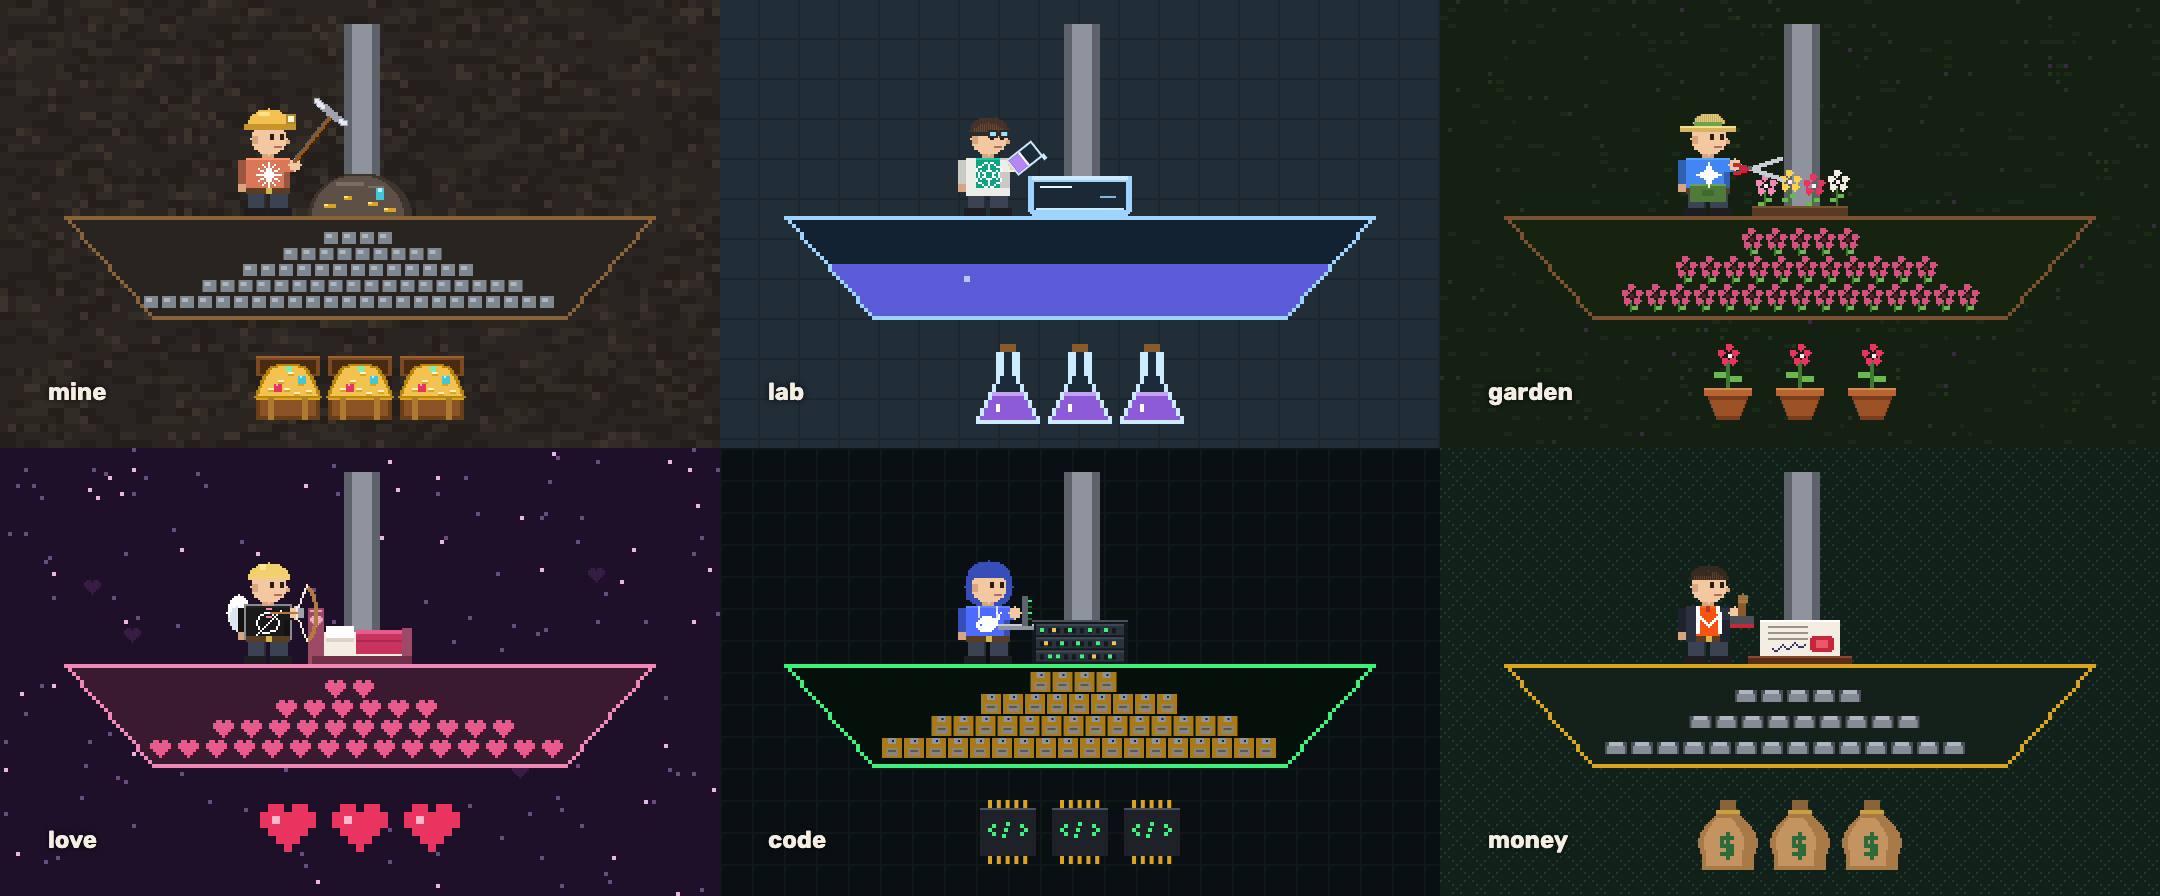
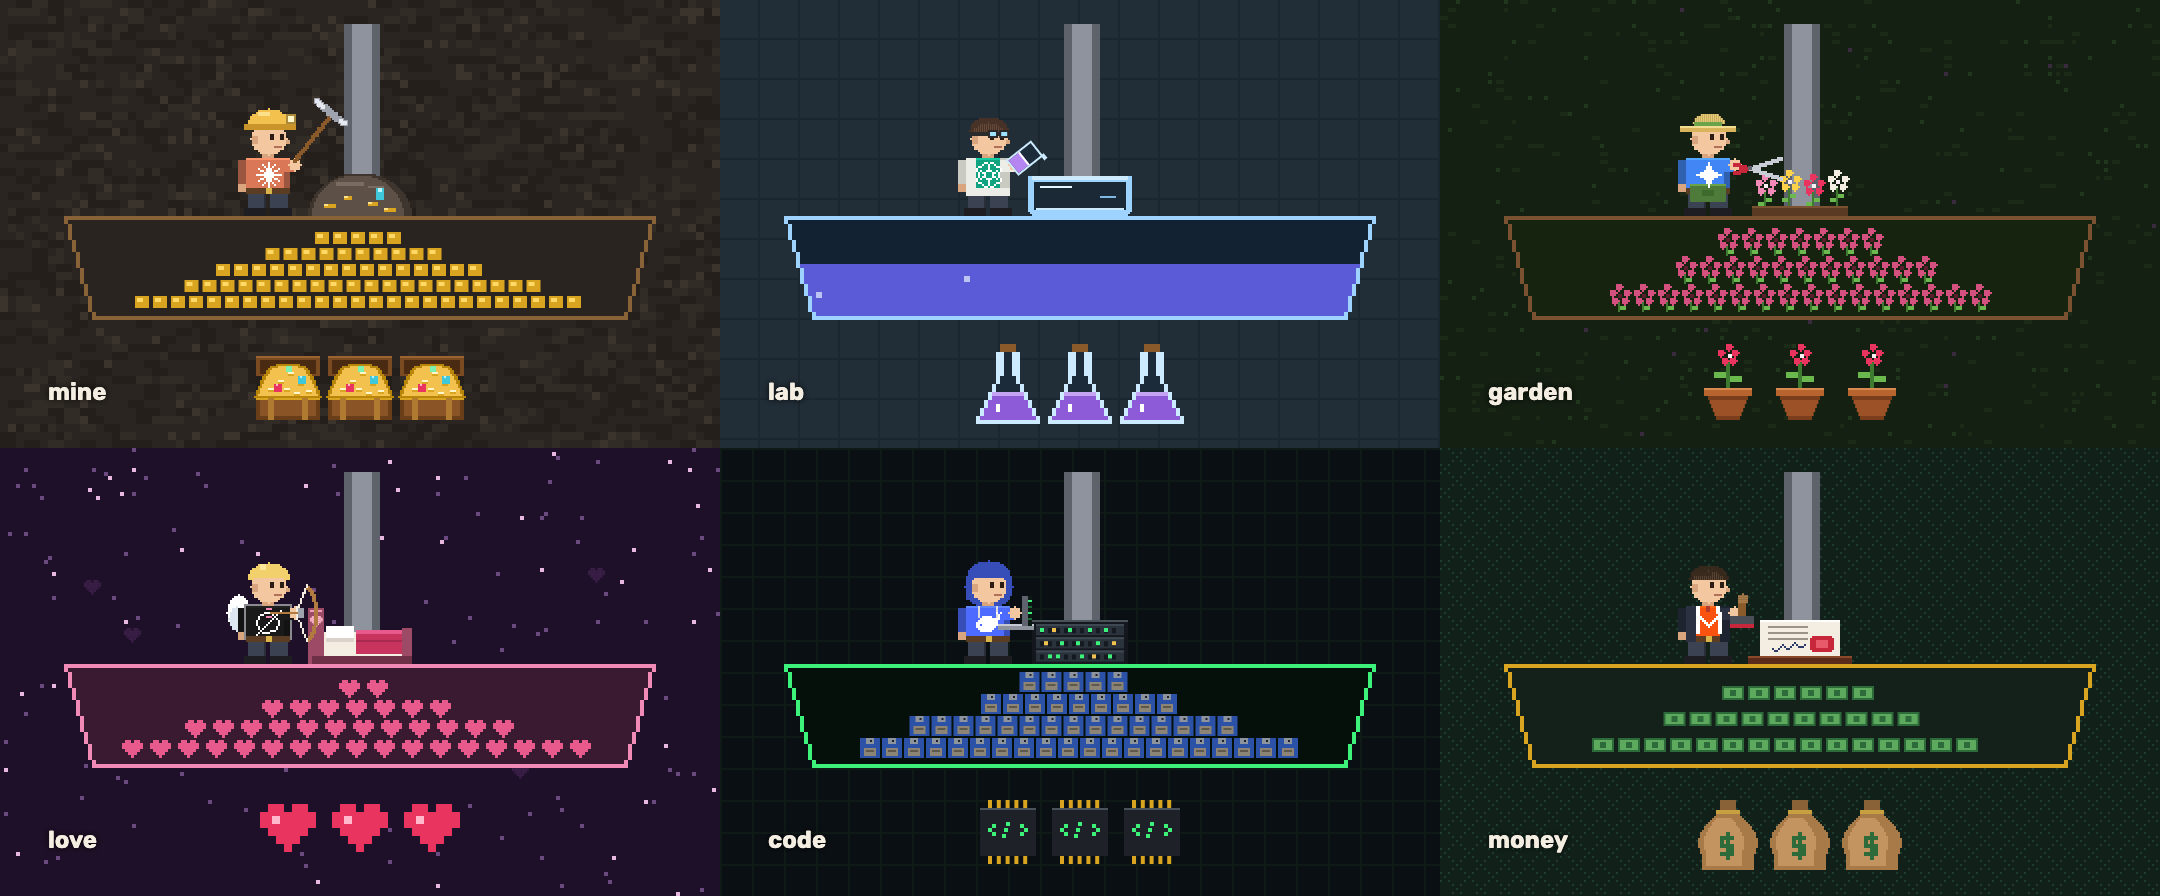
Theme samples: tank sides as gentle as on the board; gold for the mine, blue floppies, banknotes

diff --git a/tools/render-docs.js b/tools/render-docs.js
@@ -1,10 +1,10 @@
 // Renders the README pictures (agents sheet, theme samples, the board) and the link preview card from the same drawing code as
 // the dashboard and saves them through serve.py: open http://localhost:5173/tools/render-docs.html
 // (always in English: the page adds ?lang=en to itself).
-import { AGENTS, FUNNELS } from '../src/data.js?v=3cb24732';
-import { Scene, CW, H } from '../src/scene.js?v=3cb24732';
-import { THEMES } from '../src/themes.js?v=3cb24732';
-import { drawStanding, drawPickaxe, drawShears, drawBeaker, drawBow, drawArrow, drawLaptop, drawStamp } from '../src/sprites.js?v=3cb24732';
+import { AGENTS, FUNNELS } from '../src/data.js?v=37d7cad7';
+import { Scene, CW, H } from '../src/scene.js?v=37d7cad7';
+import { THEMES } from '../src/themes.js?v=37d7cad7';
+import { drawStanding, drawPickaxe, drawShears, drawBeaker, drawBow, drawArrow, drawLaptop, drawStamp } from '../src/sprites.js?v=37d7cad7';
 
 const FONT = 'Rubik, system-ui, sans-serif';
 
@@ -66,7 +66,11 @@ function themesSheet() {
     else { drawBow(g, hx, hy, 0.6); drawArrow(g, hx + 1, hy); }
     // A funnel tank as on the board: a thin trapezoid, its pieces piled from the bottom middle
     // (a liquid in the lab), about half full.
-    const tx = 90, ty = 54, TH = 26, half = row => Math.round(74 - 22 * row / (TH - 1));
+    // The sides slope as gently as on the board (7 units each over the tank's height).
+    const tx = 90, ty = 54, TH = 26, half = row => Math.round(74 - 7 * row / (TH - 1));
+    // Which stage's pieces each sample shows: gold for the mine, blue floppies for code, banknotes
+    // for money, the middle stage elsewhere.
+    const [sj, sn] = { mine: [3, 5], code: [0, 5], money: [1, 5] }[name] || [1, 3];
     for (let row = 0; row < TH; row++) {
       const h = half(row);
       g.fillStyle = th.frame;
@@ -82,7 +86,7 @@ function themesSheet() {
           if (px + P.w <= tx + hw) cells.push({ x: px, y: top, score: row * 1.6 + Math.abs(px + P.w / 2 - tx) / P.w * 0.7 });
         }
       }
-      cells.sort((a, b) => a.score - b.score).slice(0, Math.round(cells.length * 0.5)).forEach((cell, m) => P.draw(g, cell.x, cell.y, 1, 3, m));
+      cells.sort((a, b) => a.score - b.score).slice(0, Math.round(cells.length * 0.5)).forEach((cell, m) => P.draw(g, cell.x, cell.y, sj, sn, m));
     } else {
       g.save(); g.beginPath();
       for (let row = 12; row < TH - 1; row++) { const h = half(row) - 1; g.rect(tx - h, ty + row, h * 2, 1); }

diff --git a/app/index.html b/app/index.html
@@ -12,7 +12,7 @@
   <link rel="preconnect" href="https://fonts.googleapis.com">
   <link rel="preconnect" href="https://fonts.gstatic.com" crossorigin>
   <link href="https://fonts.googleapis.com/css2?family=Rubik:wght@400;500;600;700&family=Noto+Sans+SC:wght@400;500;700&family=Noto+Sans+Thai:wght@400;500;700&family=Be+Vietnam+Pro:wght@400;500;600;700&family=Noto+Sans+JP:wght@400;500;700&display=swap" rel="stylesheet">
-  <link rel="stylesheet" href="../dashboard.css?v=3cb24732">
+  <link rel="stylesheet" href="../dashboard.css?v=37d7cad7">
 </head>
 <body>
   <nav class="sitebar">
@@ -38,11 +38,11 @@
   <div id="pop" hidden></div>
 
   <script type="module">
-    import { supabase } from '../src/auth.js?v=3cb24732';
-    import { setUpConnect } from '../src/connect.js?v=3cb24732';
-    import { loadFunnels, answer, watch, runs } from '../src/live.js?v=3cb24732';
-    import { mountDashboard } from '../src/dashboard.js?v=3cb24732';
-    import { t, fmtDuration } from '../src/i18n.js?v=3cb24732';
+    import { supabase } from '../src/auth.js?v=37d7cad7';
+    import { setUpConnect } from '../src/connect.js?v=37d7cad7';
+    import { loadFunnels, answer, watch, runs } from '../src/live.js?v=37d7cad7';
+    import { mountDashboard } from '../src/dashboard.js?v=37d7cad7';
+    import { t, fmtDuration } from '../src/i18n.js?v=37d7cad7';
 
     // Coming back from an email link, supabase-js reads the session from the URL.
     const { data: { session } } = await supabase.auth.getSession();
@@ -92,6 +92,6 @@
       document.addEventListener('focusout', () => { if (pending) refresh(); });
     }
   </script>
-  <script type="module" src="../src/nav.js?v=3cb24732"></script>
+  <script type="module" src="../src/nav.js?v=37d7cad7"></script>
 </body>
 </html>

diff --git a/login/index.html b/login/index.html
@@ -12,7 +12,7 @@
   <link rel="preconnect" href="https://fonts.googleapis.com">
   <link rel="preconnect" href="https://fonts.gstatic.com" crossorigin>
   <link href="https://fonts.googleapis.com/css2?family=Rubik:wght@400;500;600;700&family=Noto+Sans+SC:wght@400;500;700&family=Noto+Sans+Thai:wght@400;500;700&family=Be+Vietnam+Pro:wght@400;500;600;700&family=Noto+Sans+JP:wght@400;500;700&display=swap" rel="stylesheet">
-  <link rel="stylesheet" href="../site.css?v=3cb24732">
+  <link rel="stylesheet" href="../site.css?v=37d7cad7">
 </head>
 <body>
   <div class="wrap">
@@ -44,9 +44,9 @@
   </div>
 
   <script type="module">
-    import { supabase, afterSignIn } from '../src/auth.js?v=3cb24732';
-    import { GOOGLE_CLIENT_ID } from '../src/config.js?v=3cb24732';
-    import { t, lang } from '../src/i18n.js?v=3cb24732';
+    import { supabase, afterSignIn } from '../src/auth.js?v=37d7cad7';
+    import { GOOGLE_CLIENT_ID } from '../src/config.js?v=37d7cad7';
+    import { t, lang } from '../src/i18n.js?v=37d7cad7';
 
     const msg = document.getElementById('msg');
     const say = (text, kind = '') => { msg.textContent = text; msg.className = 'msg ' + kind; };
@@ -120,6 +120,6 @@
       else say(t('login.sendFailed'), 'error');
     });
   </script>
-  <script type="module" src="../src/nav.js?v=3cb24732"></script>
+  <script type="module" src="../src/nav.js?v=37d7cad7"></script>
 </body>
 </html>

diff --git a/oauth/consent/index.html b/oauth/consent/index.html
@@ -13,7 +13,7 @@
   <link rel="preconnect" href="https://fonts.googleapis.com">
   <link rel="preconnect" href="https://fonts.gstatic.com" crossorigin>
   <link href="https://fonts.googleapis.com/css2?family=Rubik:wght@400;500;600;700&family=Noto+Sans+SC:wght@400;500;700&family=Noto+Sans+Thai:wght@400;500;700&family=Be+Vietnam+Pro:wght@400;500;600;700&family=Noto+Sans+JP:wght@400;500;700&display=swap" rel="stylesheet">
-  <link rel="stylesheet" href="../../site.css?v=3cb24732">
+  <link rel="stylesheet" href="../../site.css?v=37d7cad7">
 </head>
 <body>
   <div class="wrap">
@@ -29,8 +29,8 @@
   <script type="module">
     // OAuth consent: Supabase Auth sends the person here with ?authorization_id= when an agent
     // (Claude, ChatGPT, Cursor…) asks to connect to their GoalAgents.
-    import { supabase, siteUrl } from '../../src/auth.js?v=3cb24732';
-    import { t } from '../../src/i18n.js?v=3cb24732';
+    import { supabase, siteUrl } from '../../src/auth.js?v=37d7cad7';
+    import { t } from '../../src/i18n.js?v=37d7cad7';
 
     const card = document.getElementById('card');
     const esc = s => String(s ?? '').replace(/[&<>"']/g, c => `&#${c.charCodeAt(0)};`);

diff --git a/contact/index.html b/contact/index.html
@@ -23,7 +23,7 @@
   <link rel="preconnect" href="https://fonts.googleapis.com">
   <link rel="preconnect" href="https://fonts.gstatic.com" crossorigin>
   <link href="https://fonts.googleapis.com/css2?family=Rubik:wght@400;500;600;700&family=Noto+Sans+SC:wght@400;500;700&family=Noto+Sans+Thai:wght@400;500;700&family=Be+Vietnam+Pro:wght@400;500;600;700&family=Noto+Sans+JP:wght@400;500;700&display=swap" rel="stylesheet">
-  <link rel="stylesheet" href="../site.css?v=3cb24732">
+  <link rel="stylesheet" href="../site.css?v=37d7cad7">
 </head>
 <body>
   <div class="wrap">
@@ -54,6 +54,6 @@
       <span><a href="../deck/" target="_blank" rel="noopener" data-i18n="footer.deck">Pitch deck</a> · <a href="../privacy/" data-i18n="footer.privacy">Privacy</a> · <a href="../contact/" data-i18n="footer.contact">Contact</a></span>
     </footer>
   </div>
-  <script type="module" src="../src/nav.js?v=3cb24732"></script>
+  <script type="module" src="../src/nav.js?v=37d7cad7"></script>
 </body>
 </html>

diff --git a/pricing/index.html b/pricing/index.html
@@ -23,7 +23,7 @@
   <link rel="preconnect" href="https://fonts.googleapis.com">
   <link rel="preconnect" href="https://fonts.gstatic.com" crossorigin>
   <link href="https://fonts.googleapis.com/css2?family=Rubik:wght@400;500;600;700&family=Noto+Sans+SC:wght@400;500;700&family=Noto+Sans+Thai:wght@400;500;700&family=Be+Vietnam+Pro:wght@400;500;600;700&family=Noto+Sans+JP:wght@400;500;700&display=swap" rel="stylesheet">
-  <link rel="stylesheet" href="../site.css?v=3cb24732">
+  <link rel="stylesheet" href="../site.css?v=37d7cad7">
 </head>
 <body>
   <div class="wrap">
@@ -84,6 +84,6 @@
       <span><a href="../deck/" target="_blank" rel="noopener" data-i18n="footer.deck">Pitch deck</a> · <a href="../privacy/" data-i18n="footer.privacy">Privacy</a> · <a href="../contact/" data-i18n="footer.contact">Contact</a></span>
     </footer>
   </div>
-  <script type="module" src="../src/nav.js?v=3cb24732"></script>
+  <script type="module" src="../src/nav.js?v=37d7cad7"></script>
 </body>
 </html>

diff --git a/privacy/index.html b/privacy/index.html
@@ -23,7 +23,7 @@
   <link rel="preconnect" href="https://fonts.googleapis.com">
   <link rel="preconnect" href="https://fonts.gstatic.com" crossorigin>
   <link href="https://fonts.googleapis.com/css2?family=Rubik:wght@400;500;600;700&family=Noto+Sans+SC:wght@400;500;700&family=Noto+Sans+Thai:wght@400;500;700&family=Be+Vietnam+Pro:wght@400;500;600;700&family=Noto+Sans+JP:wght@400;500;700&display=swap" rel="stylesheet">
-  <link rel="stylesheet" href="../site.css?v=3cb24732">
+  <link rel="stylesheet" href="../site.css?v=37d7cad7">
 </head>
 <body>
   <div class="wrap">
@@ -60,6 +60,6 @@
       <span><a href="../deck/" target="_blank" rel="noopener" data-i18n="footer.deck">Pitch deck</a> · <a href="../privacy/" data-i18n="footer.privacy">Privacy</a> · <a href="../contact/" data-i18n="footer.contact">Contact</a></span>
     </footer>
   </div>
-  <script type="module" src="../src/nav.js?v=3cb24732"></script>
+  <script type="module" src="../src/nav.js?v=37d7cad7"></script>
 </body>
 </html>

diff --git a/index.html b/index.html
@@ -23,7 +23,7 @@
   <link rel="preconnect" href="https://fonts.googleapis.com">
   <link rel="preconnect" href="https://fonts.gstatic.com" crossorigin>
   <link href="https://fonts.googleapis.com/css2?family=Rubik:wght@400;500;600;700&family=Noto+Sans+SC:wght@400;500;700&family=Noto+Sans+Thai:wght@400;500;700&family=Be+Vietnam+Pro:wght@400;500;600;700&family=Noto+Sans+JP:wght@400;500;700&display=swap" rel="stylesheet">
-  <link rel="stylesheet" href="site.css?v=3cb24732">
+  <link rel="stylesheet" href="site.css?v=37d7cad7">
 </head>
 <body>
   <div class="wrap">
@@ -81,6 +81,6 @@
       <span><a href="deck/" target="_blank" rel="noopener" data-i18n="footer.deck">Pitch deck</a> · <a href="privacy/" data-i18n="footer.privacy">Privacy</a> · <a href="contact/" data-i18n="footer.contact">Contact</a></span>
     </footer>
   </div>
-  <script type="module" src="src/nav.js?v=3cb24732"></script>
+  <script type="module" src="src/nav.js?v=37d7cad7"></script>
 </body>
 </html>

diff --git a/connect/index.html b/connect/index.html
@@ -23,7 +23,7 @@
   <link rel="preconnect" href="https://fonts.googleapis.com">
   <link rel="preconnect" href="https://fonts.gstatic.com" crossorigin>
   <link href="https://fonts.googleapis.com/css2?family=Rubik:wght@400;500;600;700&family=Noto+Sans+SC:wght@400;500;700&family=Noto+Sans+Thai:wght@400;500;700&family=Be+Vietnam+Pro:wght@400;500;600;700&family=Noto+Sans+JP:wght@400;500;700&display=swap" rel="stylesheet">
-  <link rel="stylesheet" href="../dashboard.css?v=3cb24732">
+  <link rel="stylesheet" href="../dashboard.css?v=37d7cad7">
 </head>
 <body>
   <nav class="sitebar">
@@ -45,9 +45,9 @@
     </section>
   </main>
   <script type="module">
-    import { setUpConnect } from '../src/connect.js?v=3cb24732';
+    import { setUpConnect } from '../src/connect.js?v=37d7cad7';
     setUpConnect();
   </script>
-  <script type="module" src="../src/nav.js?v=3cb24732"></script>
+  <script type="module" src="../src/nav.js?v=37d7cad7"></script>
 </body>
 </html>

diff --git a/demo/index.html b/demo/index.html
@@ -23,7 +23,7 @@
   <link rel="preconnect" href="https://fonts.googleapis.com">
   <link rel="preconnect" href="https://fonts.gstatic.com" crossorigin>
   <link href="https://fonts.googleapis.com/css2?family=Rubik:wght@400;500;600;700&family=Noto+Sans+SC:wght@400;500;700&family=Noto+Sans+Thai:wght@400;500;700&family=Be+Vietnam+Pro:wght@400;500;600;700&family=Noto+Sans+JP:wght@400;500;700&display=swap" rel="stylesheet">
-  <link rel="stylesheet" href="../dashboard.css?v=3cb24732">
+  <link rel="stylesheet" href="../dashboard.css?v=37d7cad7">
 </head>
 <body>
   <nav class="sitebar">
@@ -41,7 +41,7 @@
     <canvas id="scene"></canvas>
   </main>
   <div id="pop" hidden></div>
-  <script type="module" src="../src/main.js?v=3cb24732"></script>
-  <script type="module" src="../src/nav.js?v=3cb24732"></script>
+  <script type="module" src="../src/main.js?v=37d7cad7"></script>
+  <script type="module" src="../src/nav.js?v=37d7cad7"></script>
 </body>
 </html>

diff --git a/src/scene.js b/src/scene.js
@@ -1,7 +1,7 @@
-import { agentInfo, plural } from './data.js?v=3cb24732';
-import { drawStanding, drawLying, drawPickaxe, drawShears, drawBeaker, drawBow, drawArrow, drawLaptop, drawStamp, drawBubble, BUBBLE_STEP, line, P, MINER_H } from './sprites.js?v=3cb24732';
-import { themeOf } from './themes.js?v=3cb24732';
-import { t as tr, lang, fmtDuration } from './i18n.js?v=3cb24732';
+import { agentInfo, plural } from './data.js?v=37d7cad7';
+import { drawStanding, drawLying, drawPickaxe, drawShears, drawBeaker, drawBow, drawArrow, drawLaptop, drawStamp, drawBubble, BUBBLE_STEP, line, P, MINER_H } from './sprites.js?v=37d7cad7';
+import { themeOf } from './themes.js?v=37d7cad7';
+import { t as tr, lang, fmtDuration } from './i18n.js?v=37d7cad7';
 
 // Logical (pixel-art) layout of one funnel column. Funnels have 2-5 tanks with a mining zone above
 // each tank and one more below the last (the output zone, where results come out into flasks).

diff --git a/src/deck.js b/src/deck.js
@@ -1,9 +1,9 @@
 // The pitch deck: each slide's backdrop is one of the dashboard themes, with an agent of that theme
 // at work under the text. Arrow keys, Page Up/Down and Space move between slides.
-import { THEMES } from './themes.js?v=3cb24732';
-import { AGENTS } from './data.js?v=3cb24732';
-import { gaugeRim, gaugeFace } from './scene.js?v=3cb24732';
-import { drawStanding, drawLying, drawBubble, drawPickaxe, drawShears, drawBeaker, drawBow, drawArrow, drawLaptop, drawStamp, MINER_H } from './sprites.js?v=3cb24732';
+import { THEMES } from './themes.js?v=37d7cad7';
+import { AGENTS } from './data.js?v=37d7cad7';
+import { gaugeRim, gaugeFace } from './scene.js?v=37d7cad7';
+import { drawStanding, drawLying, drawBubble, drawPickaxe, drawShears, drawBeaker, drawBow, drawArrow, drawLaptop, drawStamp, MINER_H } from './sprites.js?v=37d7cad7';
 
 const K = 4;  // screen pixels per logical pixel, as blocky as the dashboard
 
